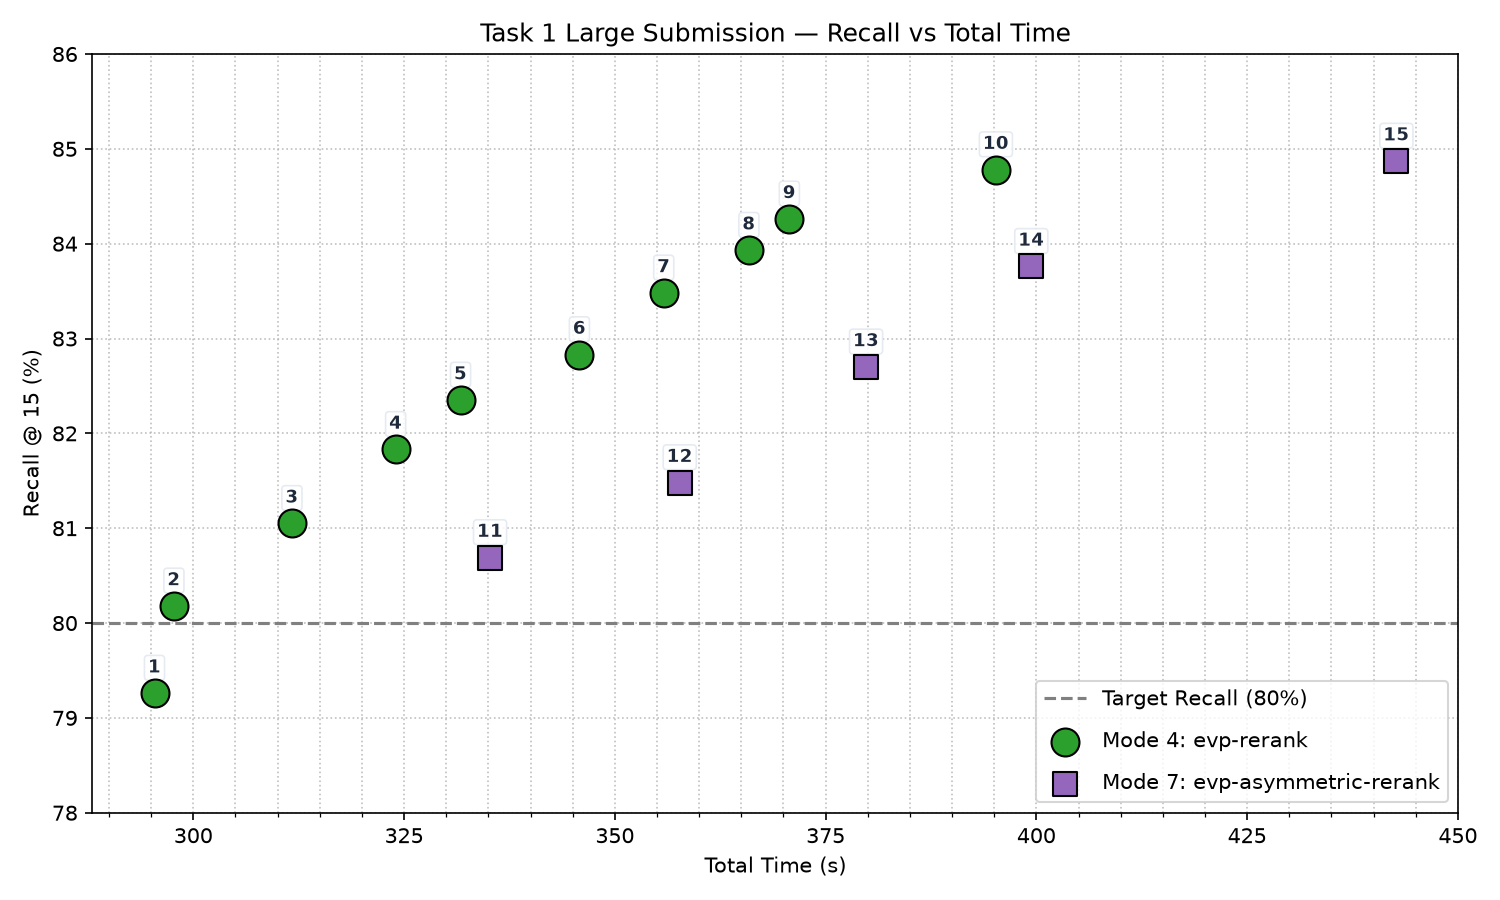
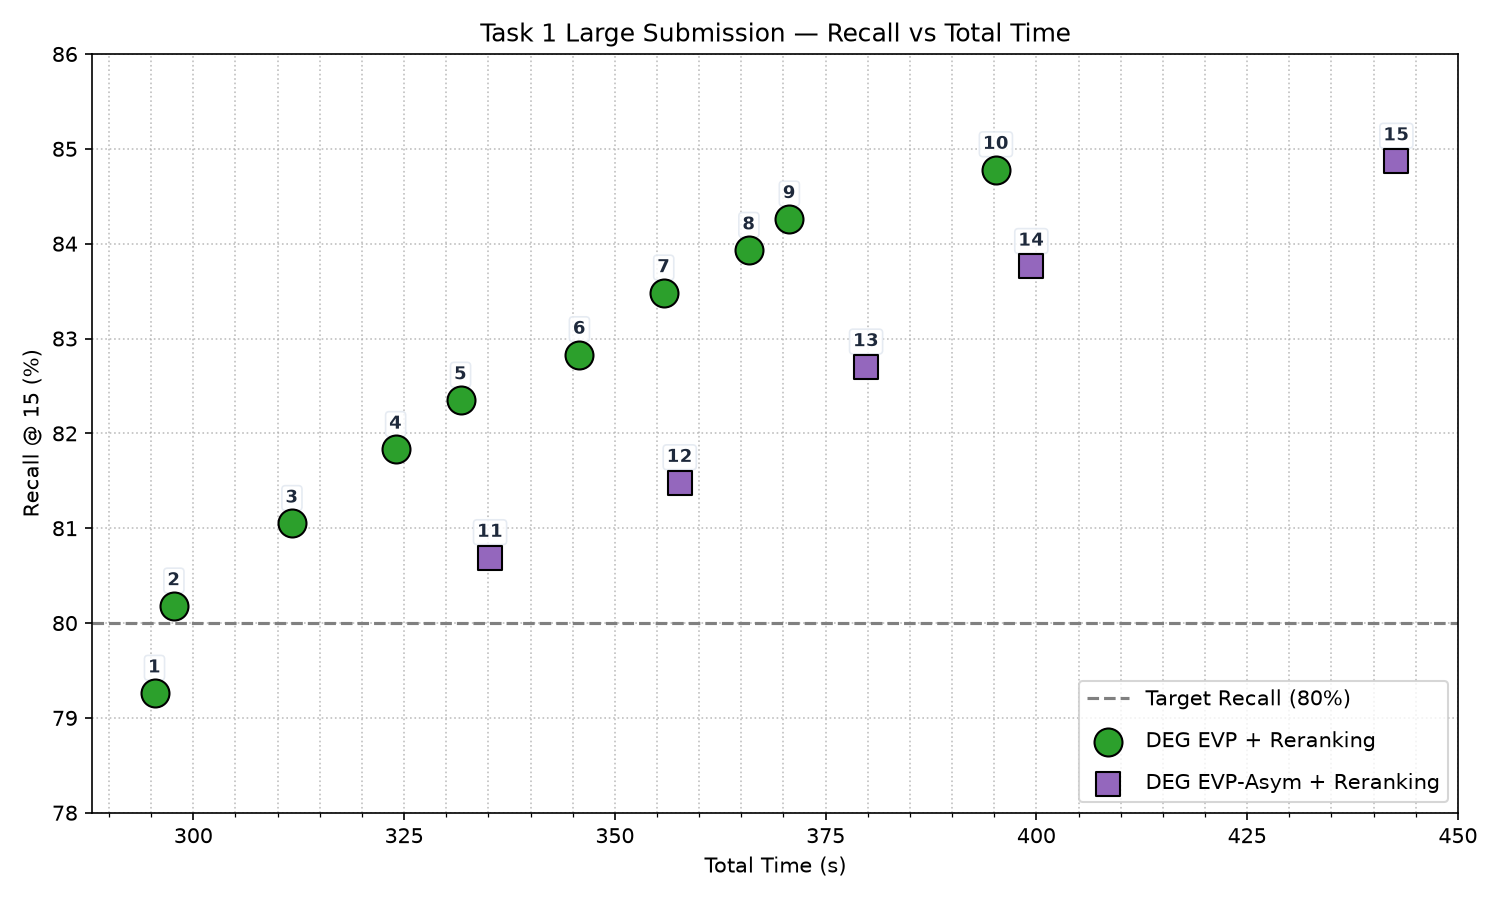
pdf output for latex

Changed region(s): [[0.6747, 0.7467, 0.9507, 0.9022]]

diff --git a/python/evaluate_task1_small.py b/python/evaluate_task1_small.py
@@ -183,11 +183,13 @@ def main() -> None:
     # Add legend with generous spacing
     plt.legend(loc="lower right", labelspacing=1.0)
 
-    # Save high-res plot
+    # Save plots
     plt.tight_layout()
-    plt.savefig(plot_path, dpi=300)
+    plt.savefig(plot_path, dpi=150)
+    plot_path_pdf = plot_path.with_suffix(".pdf")
+    plt.savefig(plot_path_pdf)
     plt.close()
-    print(f"Successfully saved plot to: {plot_path}")
+    print(f"Successfully saved plots to: {plot_path} and {plot_path_pdf}")
 
 if __name__ == "__main__":
     main()

diff --git a/python/evaluate_submission_task1_large.py b/python/evaluate_submission_task1_large.py
@@ -184,8 +184,10 @@ def main() -> None:
     # Save plot
     plt.tight_layout()
     plt.savefig(plot_path, dpi=150)
+    plot_path_pdf = plot_path.with_suffix(".pdf")
+    plt.savefig(plot_path_pdf)
     plt.close()
-    print(f"Successfully saved plot to: {plot_path}")
+    print(f"Successfully saved plots to: {plot_path} and {plot_path_pdf}")
 
 if __name__ == "__main__":
     main()

diff --git a/python/evaluate_task2.py b/python/evaluate_task2.py
@@ -197,8 +197,10 @@ def main() -> None:
     # Save plot
     plt.tight_layout()
     plt.savefig(plot_path, dpi=150)
+    plot_path_pdf = plot_path.with_suffix(".pdf")
+    plt.savefig(plot_path_pdf)
     plt.close()
-    print(f"Successfully saved plot to: {plot_path}")
+    print(f"Successfully saved plots to: {plot_path} and {plot_path_pdf}")
 
 if __name__ == "__main__":
     main()